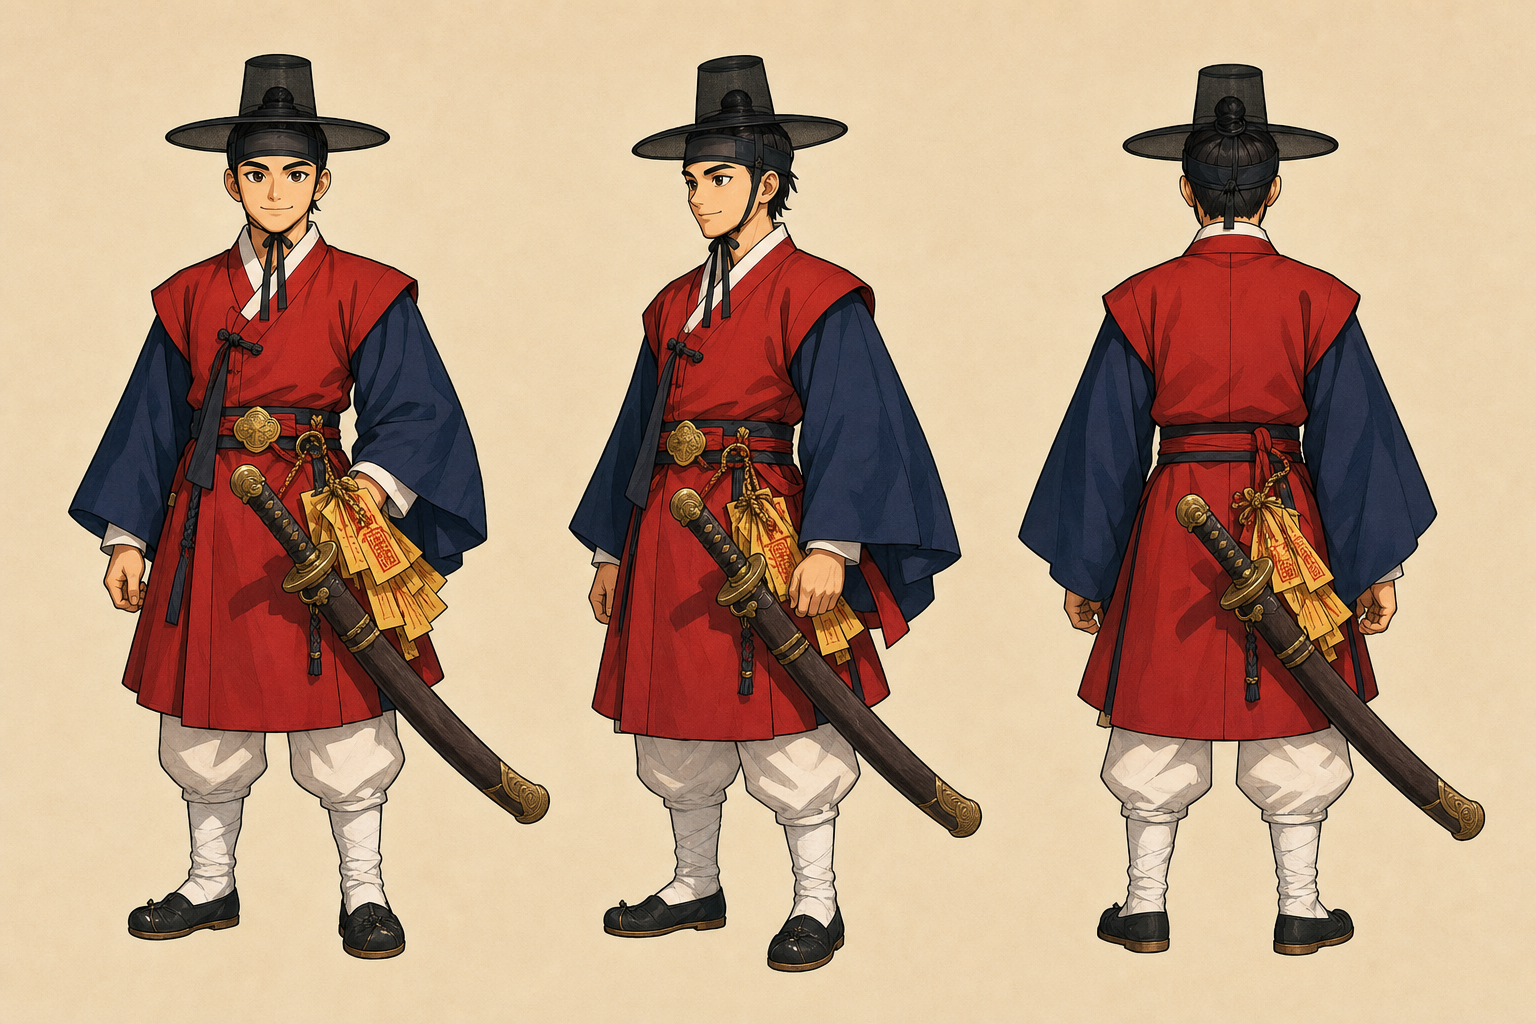
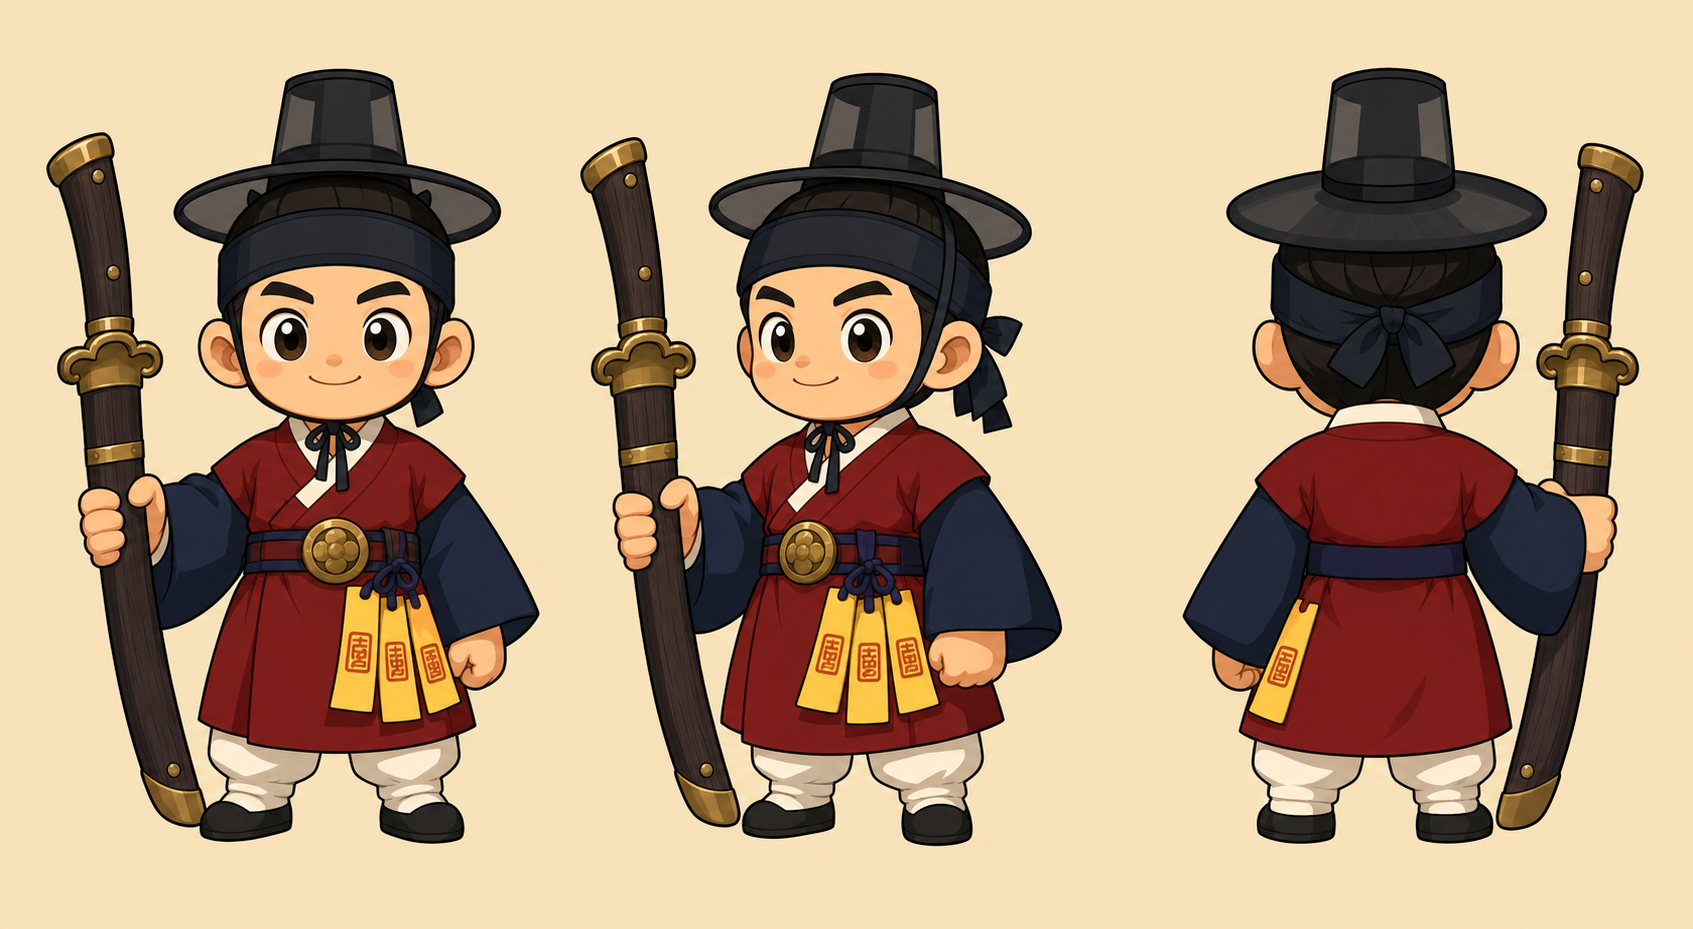
art: refine balanced casual lineup readability

diff --git a/docs/assets/prompts/balanced-casual-representative-set.md b/docs/assets/prompts/balanced-casual-representative-set.md
@@ -22,11 +22,13 @@ pose, consistent upper-left light, transparent or plain review background.
 No samurai armor, no wuxia robes, no copied commercial-game character, no UI.
 ```
 
-Every figure uses a **bold clean outline** with a consistent 5-to-7-pixel
-source-line weight, one upper-left key light, flat shadow shapes, and no tiny
-pixel texture. Feet or the lowest visible spirit edge share one horizontal
-baseline. Leave generous space around every silhouette. Show complete bodies,
-weapons, hats, sleeves, and clubs without cropping.
+Every figure uses a **bold clean outline** with a consistent 7-to-9-pixel
+source-line weight, one upper-left key light, two large flat shade shapes per
+material, and no tiny pixel texture, grain, crosshatching, seam noise, or small
+ornament. The design must remain readable when reduced to 32–56px. Feet or the
+lowest visible spirit edge share one horizontal baseline. Leave generous space
+around every silhouette. Show complete bodies, weapons, hats, sleeves, and clubs
+without cropping.
 
 ## Player lineup prompt — `exorcist_dosa`
 
@@ -36,22 +38,29 @@ Asset type: game character concept lineup and future 128x128 animation-atlas ref
 Primary request: create one original Joseon folk-fantasy exorcist swordsman,
 shown in three consistent full-body neutral design views on one clean review sheet
 Scene/backdrop: plain warm hanji-beige review background, no scenery or props
-Subject: the exact same friendly 3.5-head-tall young exorcist swordsman in each
-view; warm determined face; small black Joseon gat over a visible manggeon;
+Subject: the exact same unmistakably chibi 3.5-head-tall young exorcist swordsman
+in each view; the chin-to-crown head height is exactly about 28.5 percent of the
+full body height excluding the gat, never adult or heroic proportions; very
+large friendly face and readable eyes, oversized hands; warm determined face;
+small black Joseon gat over a visible manggeon;
 short vermilion cheollik and deep-navy sleeves; ivory collar; brass waist clasp;
-oversized curved Korean hwando in a dark wood scabbard; a clearly visible bundle
-of yellow paper talismans with red seals tied at the waist; white beoseon and
-simple black shoes
+an oversized curved Korean hwando whose blade-and-scabbard length is about the
+character's full body height and whose guard is clearly readable; a clearly
+visible bundle of three large yellow paper talismans with red seals tied at the
+waist; short chunky legs, white beoseon and simple black shoes
 Style/medium: polished original mobile-game character concept; bold clean dark
-outline; bright flat colors; two-to-three-step cel shading; crisp opaque shapes
+outline; bright flat colors; two-to-three-step cel shading built from large
+simple color planes; crisp opaque shapes; no fabric grain, fine folds, hatching,
+tiny embroidery, realistic anatomy, or small decorative lines; readable at 56px
 Composition/framing: landscape lineup; three evenly spaced views; complete body
 and complete hwando visible; all feet touch the same horizontal baseline;
 generous padding; no labels
 Lighting/mood: consistent upper-left light; approachable, brave, energetic
 Color palette: vermilion, deep navy, warm ivory, brass gold, warm skin, black
-Equipment and silhouette lock: small gat-and-manggeon head shape, broad cheollik
-sleeves, the large hwando curve, and the waist talisman bundle must remain the
-four strongest silhouette cues
+Equipment and silhouette lock: oversized round face, small gat-and-manggeon head
+shape, broad cheollik sleeves, huge hwando curve, large hands, and the waist
+talisman bundle must remain the strongest silhouette cues; the character must
+visibly measure only three and one-half heads tall in all three views
 Constraints: historically grounded Joseon clothing vocabulary; original
 project-only design; no Japanese armor, kabuto, katana, hakama, topknot, or
 torii; no Chinese wuxia robe, queue, tassel sword, or martial-sect styling; no
@@ -72,8 +81,10 @@ Subject: exactly four separated full-body enemy designs, ordered only by the
 descriptions below and without written labels; each is friendly-creepy rather
 than gory and readable at small mobile size
 Style/medium: original mobile-game character concept; bold clean dark outline;
-bright flat colors; two-to-three-step cel shading; crisp opaque shapes; no tiny
-detail or painterly texture
+bright flat colors; two-to-three-step cel shading with very large simple color
+planes; crisp opaque shapes; optimize every subject for clear 32–56px gameplay
+readability; no tiny detail, fabric grain, fur strands, scratches, necklaces,
+surface pattern, painterly texture, crosshatching, or decorative line clutter
 Composition/framing: landscape lineup; equal visual spacing; complete bodies and
 equipment visible; all feet or lowest spirit edges touch the same horizontal
 baseline; generous padding; no overlap
@@ -82,10 +93,12 @@ playfully spooky and action-readable
 Color palette: role-separated muted jade, moonlit blue-grey, purple-black, and
 warm orange-brown accents against the warm beige background
 
-plague_rat_swarm silhouette: a low, wide cluster of exactly three small plague
-rats moving as one enemy; ragged cloth scraps, dusty dark fur, bright sickly-jade
-eyes; a triangular three-head rhythm; no giant single rat, armor, weapons, gore,
-or realistic soft fur
+plague_rat_swarm silhouette: one compact low-wide game unit containing exactly
+three rats total, never four; two rats in front and one centered behind form an
+obvious triangle with exactly three heads, three bodies, and three pairs of
+glowing sickly-jade eyes; simplified dusty dark-fur shapes and one large ragged
+cloth patch per rat; no hidden fourth rat, giant single rat, armor, weapons,
+gore, individual fur strands, or realistic soft fur
 
 vengeful_spirit silhouette: a tall narrow floating Korean spirit with a broken
 lower edge; torn moonlit hanbok, long hair and sleeves flowing backward, pale
@@ -97,12 +110,16 @@ spectral body; one hand gathers a small red-gold talisman flame for a ranged
 attack; face mostly shadowed but not faceless; no conical Chinese douli, straw
 rain cape, sword, gun, or floating projectile outside its hand
 
-dokkaebi silhouette: a broad low nonhuman Korean dokkaebi with two short uneven
-horns, large nose, wide shoulders, short legs, patched Joseon-style vest and
-trousers, and one oversized wooden bangmangi club; mischievous readable face;
-front-facing guarded stance suggests a 90-degree shield arc without a literal
-shield; no oni mask, samurai armor, Chinese guardian armor, western ogre, gore,
-or fire aura
+dokkaebi silhouette: a broad low specifically Korean folk-tale dokkaebi, not a
+generic fantasy ogre; warm persimmon-orange skin, humanlike rounded ears, two
+short uneven blunt horn nubs, one large round red nose, thick curved eyebrows,
+wide mischievous smile without tusks, round belly and short chunky legs; simple
+indigo Joseon jeogori-style vest, roomy ivory baji trousers, straw sandals and a
+bold saekdong waist sash; one oversized plain wooden bangmangi club with a round
+knot at the end; front-facing guarded stance suggests a 90-degree shield arc
+without a literal shield; no green or grey ogre skin, pointy elf ears, tusks,
+mohawk, bodybuilder muscles, fur armor, wrist wraps, oni mask, samurai armor,
+Chinese guardian armor, western troll/ogre styling, gore, or fire aura
 
 Constraints: exactly four enemies and no extra creatures; every silhouette must
 remain distinguishable in solid black; project-only original designs; no copied
@@ -114,18 +131,25 @@ cropped hat, or cropped equipment
 ## Review and downstream contract
 
 - `source_assets/representative_set/exorcist_dosa_lineup.png`
[2 lines of base64/hex data omitted]
 - `source_assets/representative_set/enemy_role_lineup.png`
[2 lines of base64/hex data omitted]
 - Review at original resolution for silhouette separation, cultural vocabulary,
   complete limbs and equipment, common baseline, consistent outline, and common
   upper-left light.
-- The player concept has complete equipment and a consistent three-view identity.
-  Its body ratio is taller than the final 3-to-4-head runtime target, so the
-  animation-atlas silhouette must be compressed rather than traced directly.
-- The enemy roles are strongly separated, but the temporary rat concept contains
-  four rats instead of the locked three-rat cluster. The runtime atlas must use
-  exactly three rats and retain the low, wide triangular silhouette.
+- The player must visibly measure 3.5 heads tall with a large face, hands and
+  hwando before it may be used as the runtime-atlas identity reference.
+- The rat unit must visibly contain exactly three rats in a low, wide triangular
+  arrangement. A fourth head or body is a rejection condition.
+- The dokkaebi must read as Korean folk/Joseon through its warm face, round nose,
+  jeogori-style vest, baji, saekdong sash and bangmangi rather than generic ogre
+  anatomy or fantasy armor.
+- The reviewed player replacement visibly uses a short 3.5-head chibi body,
+  oversized face and hands, a body-length hwando, and large flat cel-shaded color
+  planes suitable for the 56px display target.
+- The reviewed enemy replacement contains exactly three countable rats, removes
+  fine surface clutter, and gives the dokkaebi the locked Korean/Joseon clothing
+  and color cues without generic ogre armor.
 - The lineup images are visual references only. Runtime atlases must still be
   authored as 512x512 transparent RGBA sheets: `4x4` cells, `128x128` each.
 - Runtime animation frames 0–3 move, 4–7 attack, 8–9 hit, and 10–15 death.
